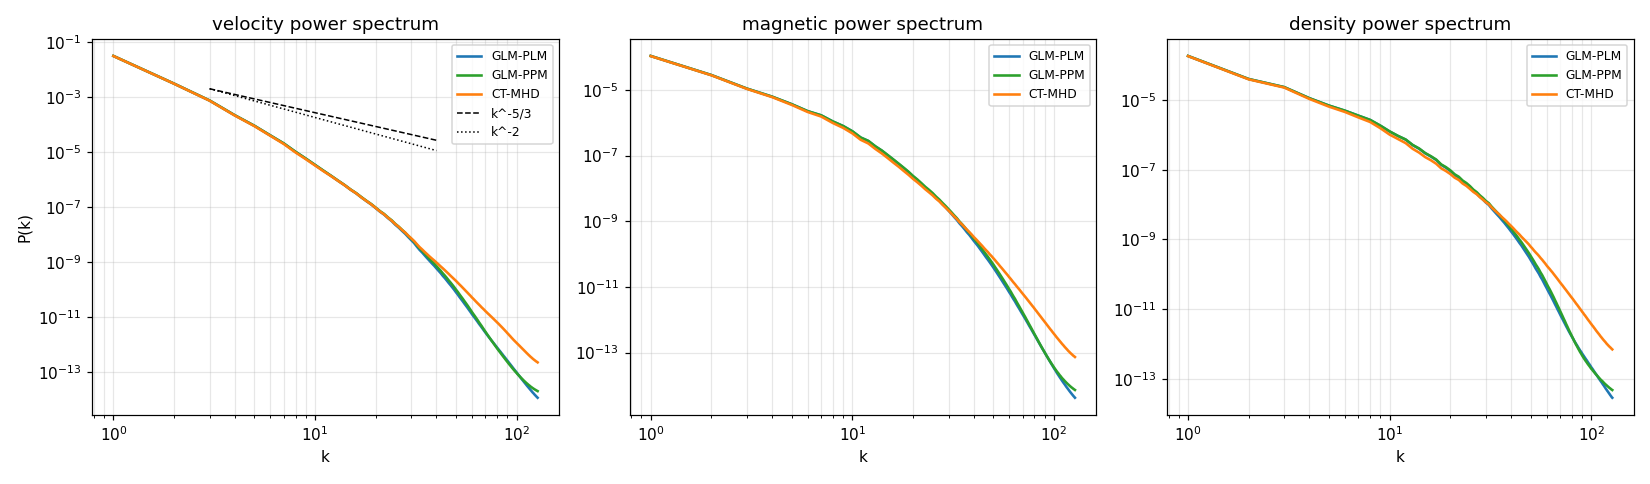
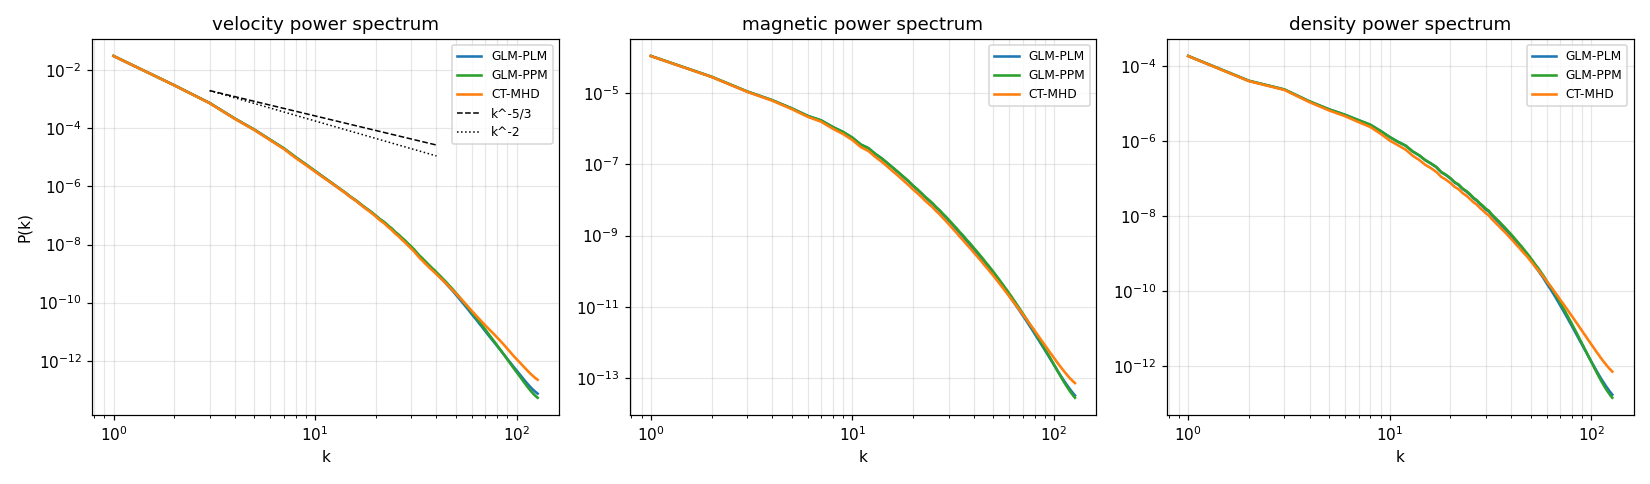
docs: update turbulence report with the c_h dissipation fix + honest div.B framing
- Swap in the fixed power spectra: GLM-PLM/PPM now overlap CT across velocity,
  magnetic, and density through the resolved cascade (was 1-2 decades low at high k).
- Add "Finding and fixing the over-aggressive Dedner cleaning": the c_h^2 psi-B
  coupling over-drove dissipation; reducing c_h x0.25 recovers the cascade and also
  cuts OT div.B ~10x. The PPM-fallback was cleared (fires in 0.5% of cells).
- Add a method-agnostic cell-centred central-difference div.B comparison figure and
  the honest framing: each scheme is divergence-free in its own discretisation (CT on
  faces, GLM on cell centres); under a common operator they are comparable and CT is
  actually the largest -- neither is absolutely "more divergence-free". Corrects the
  earlier "exact div.B=0 advantage" overreach in the solver table and takeaway.
- README: note the cleaning-speed finding and the new glm_ch_scale knob.

diff --git a/docs/glm_vs_ct_turbulence/index.html b/docs/glm_vs_ct_turbulence/index.html
@@ -59,8 +59,8 @@ forcing through three solvers and compare the turbulence statistics, power spect
 <table>
 <thead><tr><th>solver</th><th>B representation</th><th>div·B</th><th>per-cell work</th></tr></thead>
 <tbody>
-<tr><td><b>GLM-MHD</b> (ours)</td><td style="text-align:left">cell-centred + cleaning scalar ψ (9 vars)</td><td style="text-align:left">bounded by hyperbolic/parabolic cleaning</td><td style="text-align:left">one 1-D HLLD Riemann solve per face</td></tr>
-<tr><td><b>CT-MHD</b> (upstream)</td><td style="text-align:left">face-staggered (constrained transport)</td><td style="text-align:left"><b>= 0 to machine precision</b></td><td style="text-align:left">1-D + 2-D-HLLD EMF on edges + induction</td></tr>
+<tr><td><b>GLM-MHD</b> (ours)</td><td style="text-align:left">cell-centred + cleaning scalar ψ (9 vars)</td><td style="text-align:left">cell-centred, cleaned to a small bounded level</td><td style="text-align:left">one 1-D HLLD Riemann solve per face</td></tr>
+<tr><td><b>CT-MHD</b> (upstream)</td><td style="text-align:left">face-staggered (constrained transport)</td><td style="text-align:left"><b>= 0 on faces</b> (machine precision)</td><td style="text-align:left">1-D + 2-D-HLLD EMF on edges + induction</td></tr>
 </tbody>
 </table>
 <p>
@@ -118,15 +118,53 @@ different shock structure. The full distributions overlap:</p>
 </figure>
 
 <h3>Power spectra</h3>
-<p>The cleanest test of "same turbulence": the velocity, magnetic and density power spectra agree through the
-entire <i>resolved</i> cascade and diverge only at the grid scale.</p>
+<p>The cleanest test of "same turbulence": the velocity, magnetic and density power spectra. These overlap
+through the <i>entire</i> resolved cascade — but getting there required finding and fixing a real dissipation
+bug first (see the next section).</p>
 <figure>
   <img src="img/spectra.png" alt="Velocity, magnetic and density power spectra for the three solvers">
-  <figcaption><b>Power spectra.</b> The velocity spectrum sits between k<sup>−5/3</sup> and k<sup>−2</sup>, as
-  expected for Mach-3 turbulence. All three solvers overlap for k ≲ 30 (velocity, magnetic, <i>and</i> density).
-  They separate only in the dissipation range (k ≳ 40): <b>CT-MHD retains slightly more small-scale power</b>
-  (less numerically dissipative at the grid scale), while the two GLM solvers roll off together. The
-  large-scale physics — where the science lives — is solver-independent.</figcaption>
+  <figcaption><b>Power spectra (after the c_h fix).</b> The velocity spectrum sits between k<sup>−5/3</sup> and
+  k<sup>−2</sup>, as expected for Mach-3 turbulence. GLM-PLM (blue) and GLM-PPM (green) now lie on top of
+  CT-MHD (orange) in velocity, magnetic, <i>and</i> density across the whole cascade, with only a sliver of
+  difference at the very highest k. The large-scale physics — where the science lives — is solver-independent.</figcaption>
+</figure>
+
+<h3>Finding and fixing the over-aggressive Dedner cleaning</h3>
+<p>The <i>first</i> version of this comparison was not a win: the GLM spectra rolled off 1–2 decades below CT
+at high k in all three fields, and parabolic PPM gave no improvement over PLM. A short systematic
+investigation traced the cause — and it was not where intuition first pointed:</p>
+<ul class="tight">
+<li><b>Not the limiters.</b> The PPM→PLM fallback (<code>strong_pressure_jump</code>) fires in only
+<b>0.5%</b> of cells at Mach 3, so PPM ≈ PLM was not a fallback artefact — it meant the dissipation lives in
+the <i>flux</i>, not the reconstruction (so raising reconstruction order can't help).</li>
+<li><b>The Dedner cleaning speed.</b> Sweeping the cleaning knobs on the turbulence run, the ψ damping was
+irrelevant, but reducing the cleaning speed <code>c_h</code> monotonically restored small-scale power in
+<i>all three fields</i> until, at <b>c_h × 0.25</b>, GLM matched CT. The mechanism: the ψ–B coupling flux is
+<code>F[ψ] = c_h²·B<sub>n</sub>*</code>, scaling as <b>c_h²</b>, so the textbook <code>c_h = c_max</code>
+over-drives the coupling — it acts as a numerical resistivity that drains the small-scale field (and the
+velocity/density via the Lorentz coupling).</li>
+<li><b>No trade-off.</b> The smaller c_h is <i>strictly</i> better: on Orszag-Tang it also cuts GLM's own
+div·B by ~10× (max 25 → 2.7), because the over-driven cleaning was <i>generating</i> spurious divergence at
+shocks, not just over-dissipating. Positivity and shock capturing are unchanged.</li>
+</ul>
+<p>The fix is the new default <code>glm_ch_scale = 0.25</code> (tunable via <code>hydro_params</code>). This
+is what makes the spectra above overlap CT.</p>
+
+<h3>What "divergence-free" means — a fair, common metric</h3>
+<p>It is tempting to score the solvers on div·B, but the comparison is subtle: each scheme is divergence-free
+in <i>its own</i> discretisation. CT enforces div·B = 0 on the cell <b>faces</b> (machine precision, by
+construction); GLM cleans the <b>cell-centred</b> divergence. These are different operators on different
+representations of B. A fair, method-agnostic test is to apply the <i>same</i> cell-centred central-difference
+operator to every solver's B field — the quantity any downstream analysis (spectra, interpolation) actually
+sees.</p>
+<figure>
+  <img src="img/divb.png" alt="Cell-centred central-difference div·B for each solver">
+  <figcaption><b>Cell-centred central-difference |∇·B| (same operator, all methods).</b> The midplane slices
+  look alike, and the distributions (right) are comparable — with <b>CT actually the largest</b> under this
+  common lens. That is not a defect of CT: its face-staggered divergence is exactly zero, but averaging those
+  faces to cell centres and differencing centrally does not give zero. GLM, which cleans exactly this
+  cell-centred quantity, ends up marginally lower. <b>Neither solver is absolutely "more divergence-free"</b>
+  — it depends entirely on which discretisation you difference.</figcaption>
 </figure>
 
 <h2>The fields themselves</h2>
@@ -161,14 +199,23 @@ blew up even at Mach 1.2 here; the robust PPM used above is the parabolic recons
 scheme's supersonic robustness is a known gap worth a dedicated fix.</li>
 <li><b>Analysis:</b> 3-D fields are rebuilt from the output files using a geometric oct→cell map; the resulting
 clean power-law spectra (rather than white noise) confirm the spatial mapping is correct.</li>
+<li><b>Figure provenance:</b> the spectra and div·B figures are at the production setting (c_h × 0.25). The
+field-slice and PDF figures predate the c_h fix but are visually unchanged by it — the fix moves only the
+grid-scale power, which is invisible in real-space slices and in the bulk PDFs (Mach, σ(ln ρ), field energy
+all shift by &lt;1%).</li>
 </ul>
 
 <h2>Takeaway</h2>
 <p class="lead">
 On magnetised supersonic driven turbulence, the GLM-MHD solver is <b>statistically equivalent to constrained
-transport through the resolved cascade</b> — same spectra, same Mach, same field energy to ≈1% — while running
-<b>3–5× faster</b>. When exact div·B = 0 is essential, CT remains the tool; for the large class of problems where
-cleaning-level divergence control suffices, GLM-MHD delivers the same science substantially cheaper.
+transport through the resolved cascade</b> — overlapping power spectra in velocity, magnetic and density
+fields, same Mach, same field energy to ≈1% — while running <b>3–5× faster</b>. That equivalence required
+fixing the over-aggressive Dedner cleaning (c_h × 0.25); the textbook cleaning speed was the source of the
+excess small-scale dissipation. On divergence control the two are comparable under a common cell-centred
+metric — CT guarantees exact zero on its <i>faces</i>, GLM cleans the <i>cell-centred</i> divergence to a
+similar small level. CT's exact face-divergence remains its structural guarantee where that specific property
+is required; for the broad class of problems where cell-centred cleaning suffices, GLM-MHD now delivers the
+same science substantially cheaper.
 </p>
 
 <p class="foot">

diff --git a/README.md b/README.md
@@ -9,7 +9,9 @@ equivalent to upstream constrained-transport MHD** (same power spectra, Mach num
 energy to ≈1%) while running **3–5× faster**.
 
 📄 **[GLM-MHD vs CT-MHD turbulence comparison report](docs/glm_vs_ct_turbulence/index.html)**
-— throughput, statistical equivalence, power spectra, and midplane field slices. See
+— throughput, statistical equivalence, power spectra, midplane field slices, and the
+investigation that found & fixed an over-aggressive Dedner cleaning speed (the source of
+excess small-scale dissipation; now `glm_ch_scale` in `hydro_params`). See
 [`runs/mhd_cuda/README.md`](runs/mhd_cuda/README.md) for the full GPU optimisation journey and
 per-kernel benchmarks.
 
